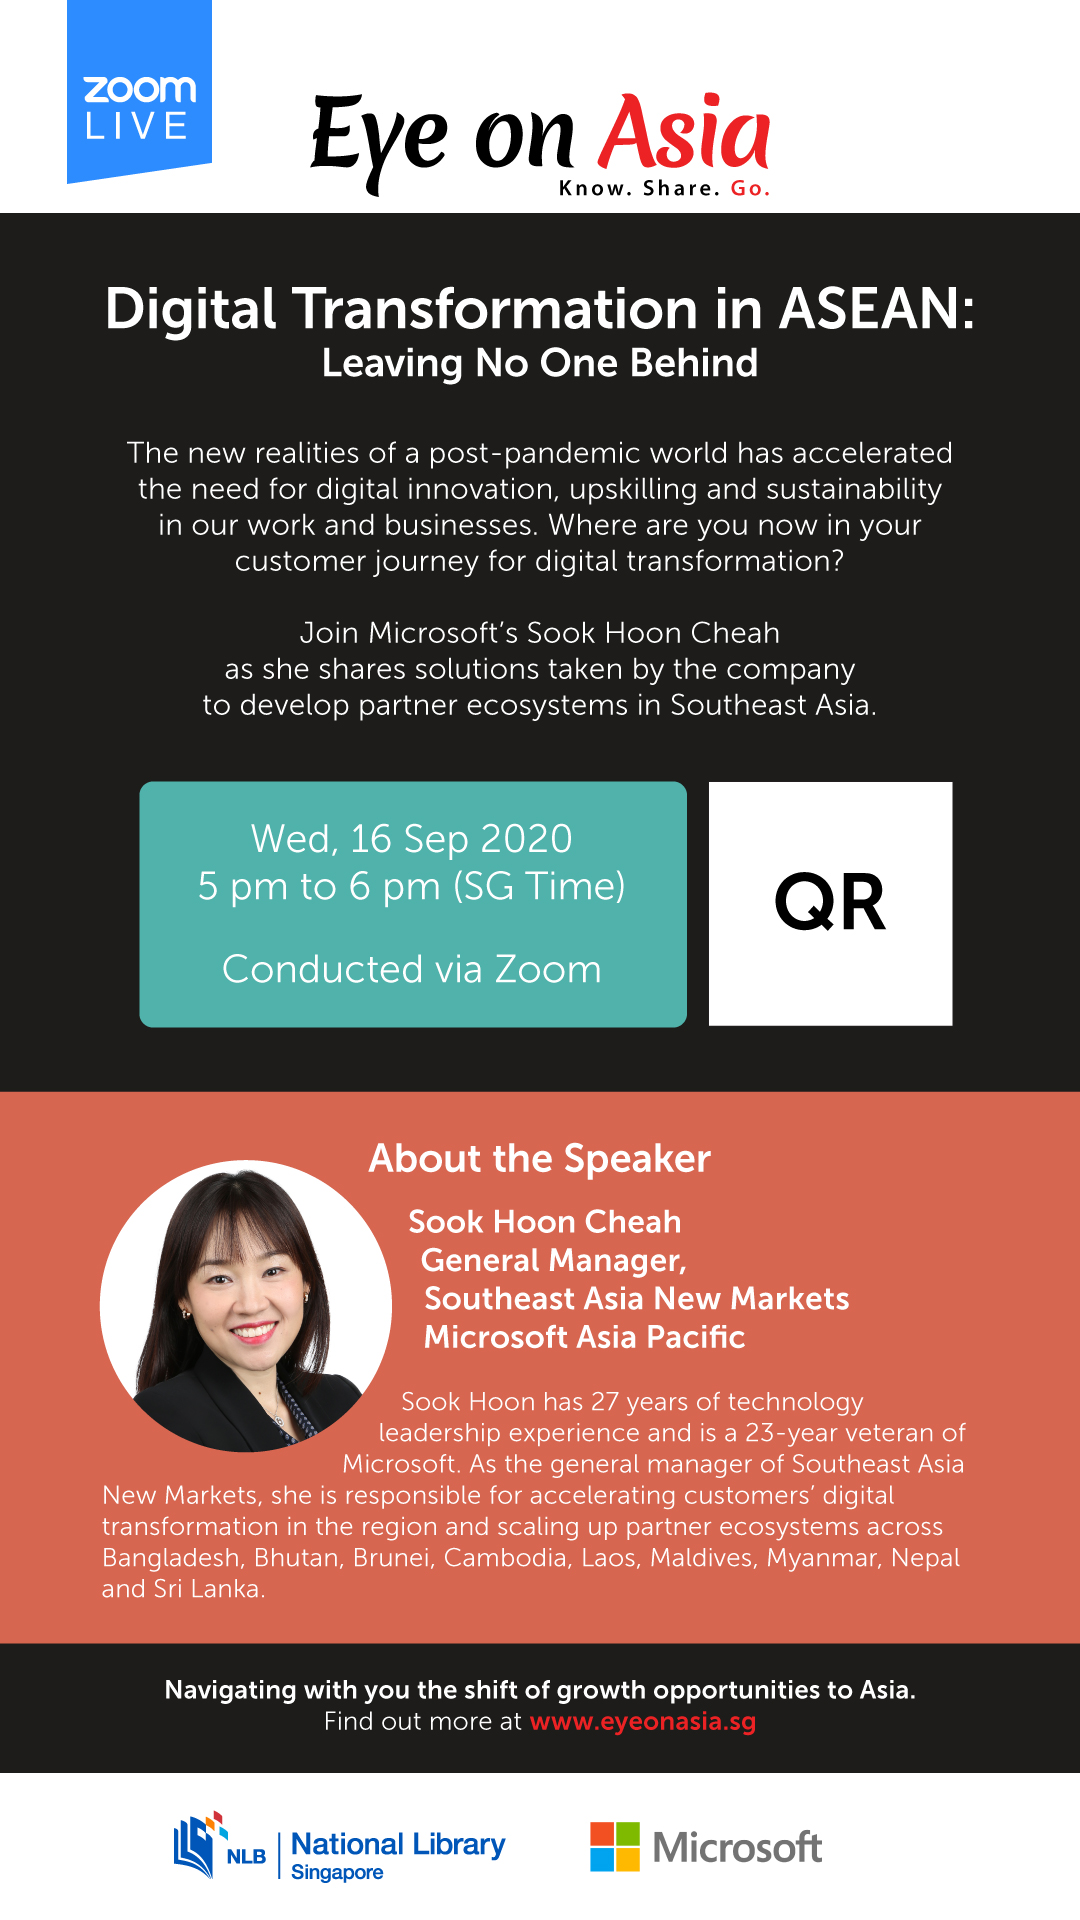
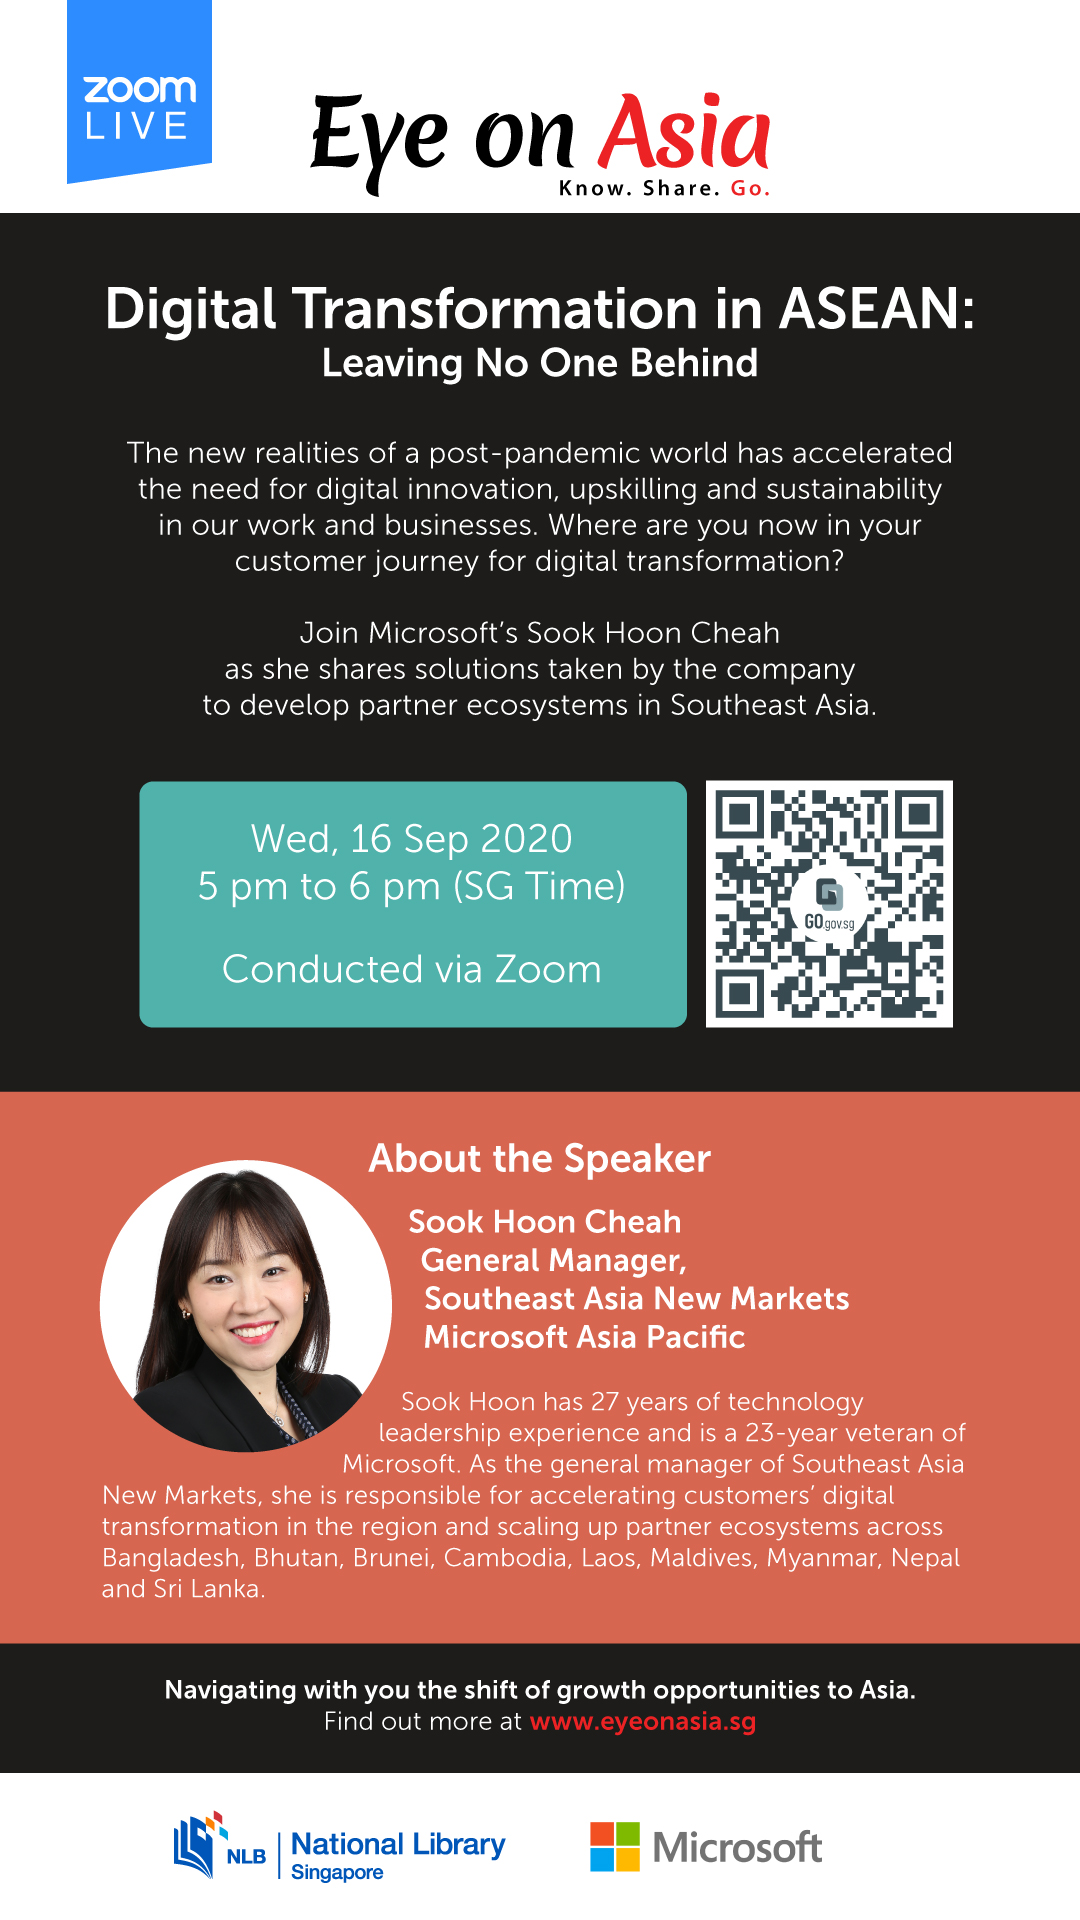
new Sep event

Changed region(s): [[0.6417, 0.4062, 0.8861, 0.5312]]

diff --git a/events/upcoming-events/_posts/2020-08-25-sep-event.md b/events/upcoming-events/_posts/2020-08-25-sep-event.md
@@ -42,4 +42,4 @@ Sook Hoon brings 27 years of technology leadership experience and is a 23-year v
 
 • You may access Zoom through the app or web browser.-->
 
-<img src="\images\past-events\16-Sep-2020\Eye on Asia eDM 16 Sep 2020 v3.jpg" style="width:800px;" /></a>
+<a href="https://www.eventbrite.com/e/digital-transformation-in-asean-leaving-no-one-behind-eye-on-asia-registration-116575355025"  target="_blank"><img src="\images\past-events\16-Sep-2020\Eye on Asia eDM 16 Sep 2020 v3.jpg" style="width:800px;" /></a>
